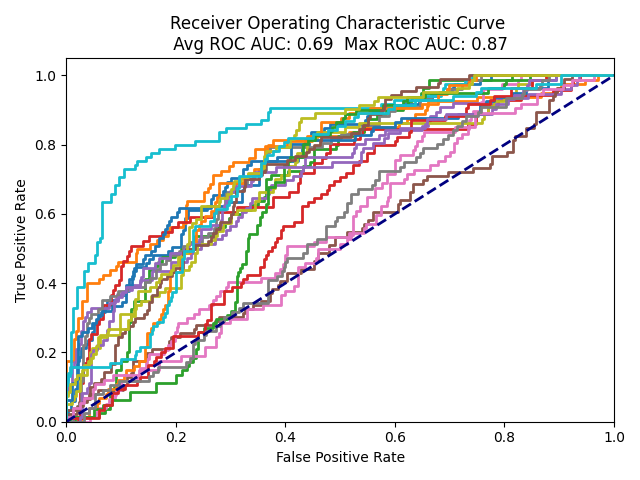
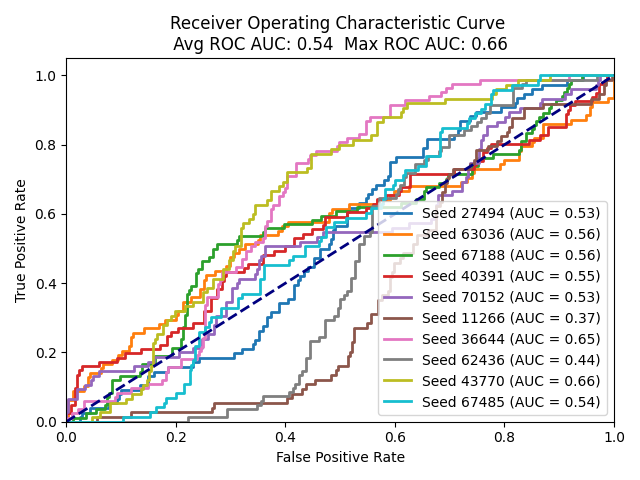
histogram for mlticlass

diff --git a/data_preprocessing/multi_classes.py b/data_preprocessing/multi_classes.py
@@ -1,19 +1,16 @@
-import torch
-from torch.utils.data import Dataset
-from torchvision import transforms
 import os
 import pandas as pd
 import numpy as np
-import pydicom
-from albumentations import Compose, Resize, CenterCrop
+import matplotlib.pyplot as plt
 import cv2
 import csv
-
+import sys
+sys.path.insert(0, os.path.abspath(os.path.join(os.path.dirname(__file__), '..')))
 import configs
 import utils
 
 # to understand the data we have for multi classes
-df = pd.read_excel(f'{configs.DATA_DIR}excel_predicciones.xlsx', sheet_name='completa_datos')
+df = pd.read_excel(f'{configs.DATA_DIR}excel_predicciones.xlsx', sheet_name='datos hospital')
 
 def histo(label):
     data=df[label]
@@ -23,6 +20,7 @@ def histo(label):
     q2 = serie.quantile(2/3)
 
     # Affichage des bornes
+    print(f'Label : {label}')
     print(f"Groupe 1 : <= {q1:.2f}")
     print(f"Groupe 2 : > {q1:.2f} et <= {q2:.2f}")
     print(f"Groupe 3 : > {q2:.2f}")
@@ -36,6 +34,8 @@ def histo(label):
     plt.ylabel("Fréquence")
     plt.legend()
     plt.grid(True)
-    plt.show()
+    plt.savefig(f"{configs.DIR}/results/histogram - {label}.png") 
+    plt.close()
 
 histo('DiasVM')
+histo('DiasUCI')

diff --git a/dataloader.py b/dataloader.py
@@ -132,6 +132,12 @@ def load_data(target_output=configs.target_output):
     new_label_df = pd.read_excel(f'{configs.DATA_DIR}excel_predicciones.xlsx', sheet_name='selected_cortes')
     new_label_df['Path'] = new_label_df['Identifier'].apply(utils.ajust_path)
 
+    # Adding multiple class labels
+    new_label_df['HSA'] = new_label_df['Path'].apply(lambda x: x.split('/')[configs.patient])
+    multiclass_labels = pd.read_excel(f'{configs.DATA_DIR}excel_predicciones.xlsx', sheet_name='datos hospital')
+    multiclass_labels = multiclass_labels[['HSA', 'mRSalta', 'mRS1año', 'DiasVM', 'DiasUCI']]
+    new_label_df = pd.merge(new_label_df, multiclass_labels, on='HSA', how='left')
+
     # Create the DataFrame for the dataset
     data_df = new_label_df[[configs.target_output,'Path']]
     # data_df = data_df.rename(columns={'ANY Vasoespasm ':'ANY_Vasospasm'})

diff --git a/configs.py b/configs.py
@@ -3,7 +3,7 @@ TEST_SIZE = 0.3
 CHANNELS = 3
 HEIGHT = 256
 WIDTH = 256
-SEED = 54321 #for reproductability
+SEED = 12345 #for reproductability
 
 split_train = 0.6
 split_valid = 0.3
@@ -25,7 +25,7 @@ DIR = '/export/usuarios01/lmurat/Datos/Predictions-SAH/'
 # 0-6 : 'mRSalta', 'mRS1año'
 # 0-38+ : 'DiasVM'
 # 0-108+ : 'DiasUCI'
-target_output = 'Infarction'
+target_output = 'ANY Vasoespasm '
 
 # Ro run on gpu if available
 import torch

diff --git a/main_iterations.py b/main_iterations.py
@@ -18,7 +18,7 @@ auc_values = []
 training_accuracy_values = []
 validation_accuracy_values = []
 lw = 2 #line width
-nb_iterations = 20
+nb_iterations = 10
 results = []
 
 df = dataloader.load_data(target_output=configs.target_output)
